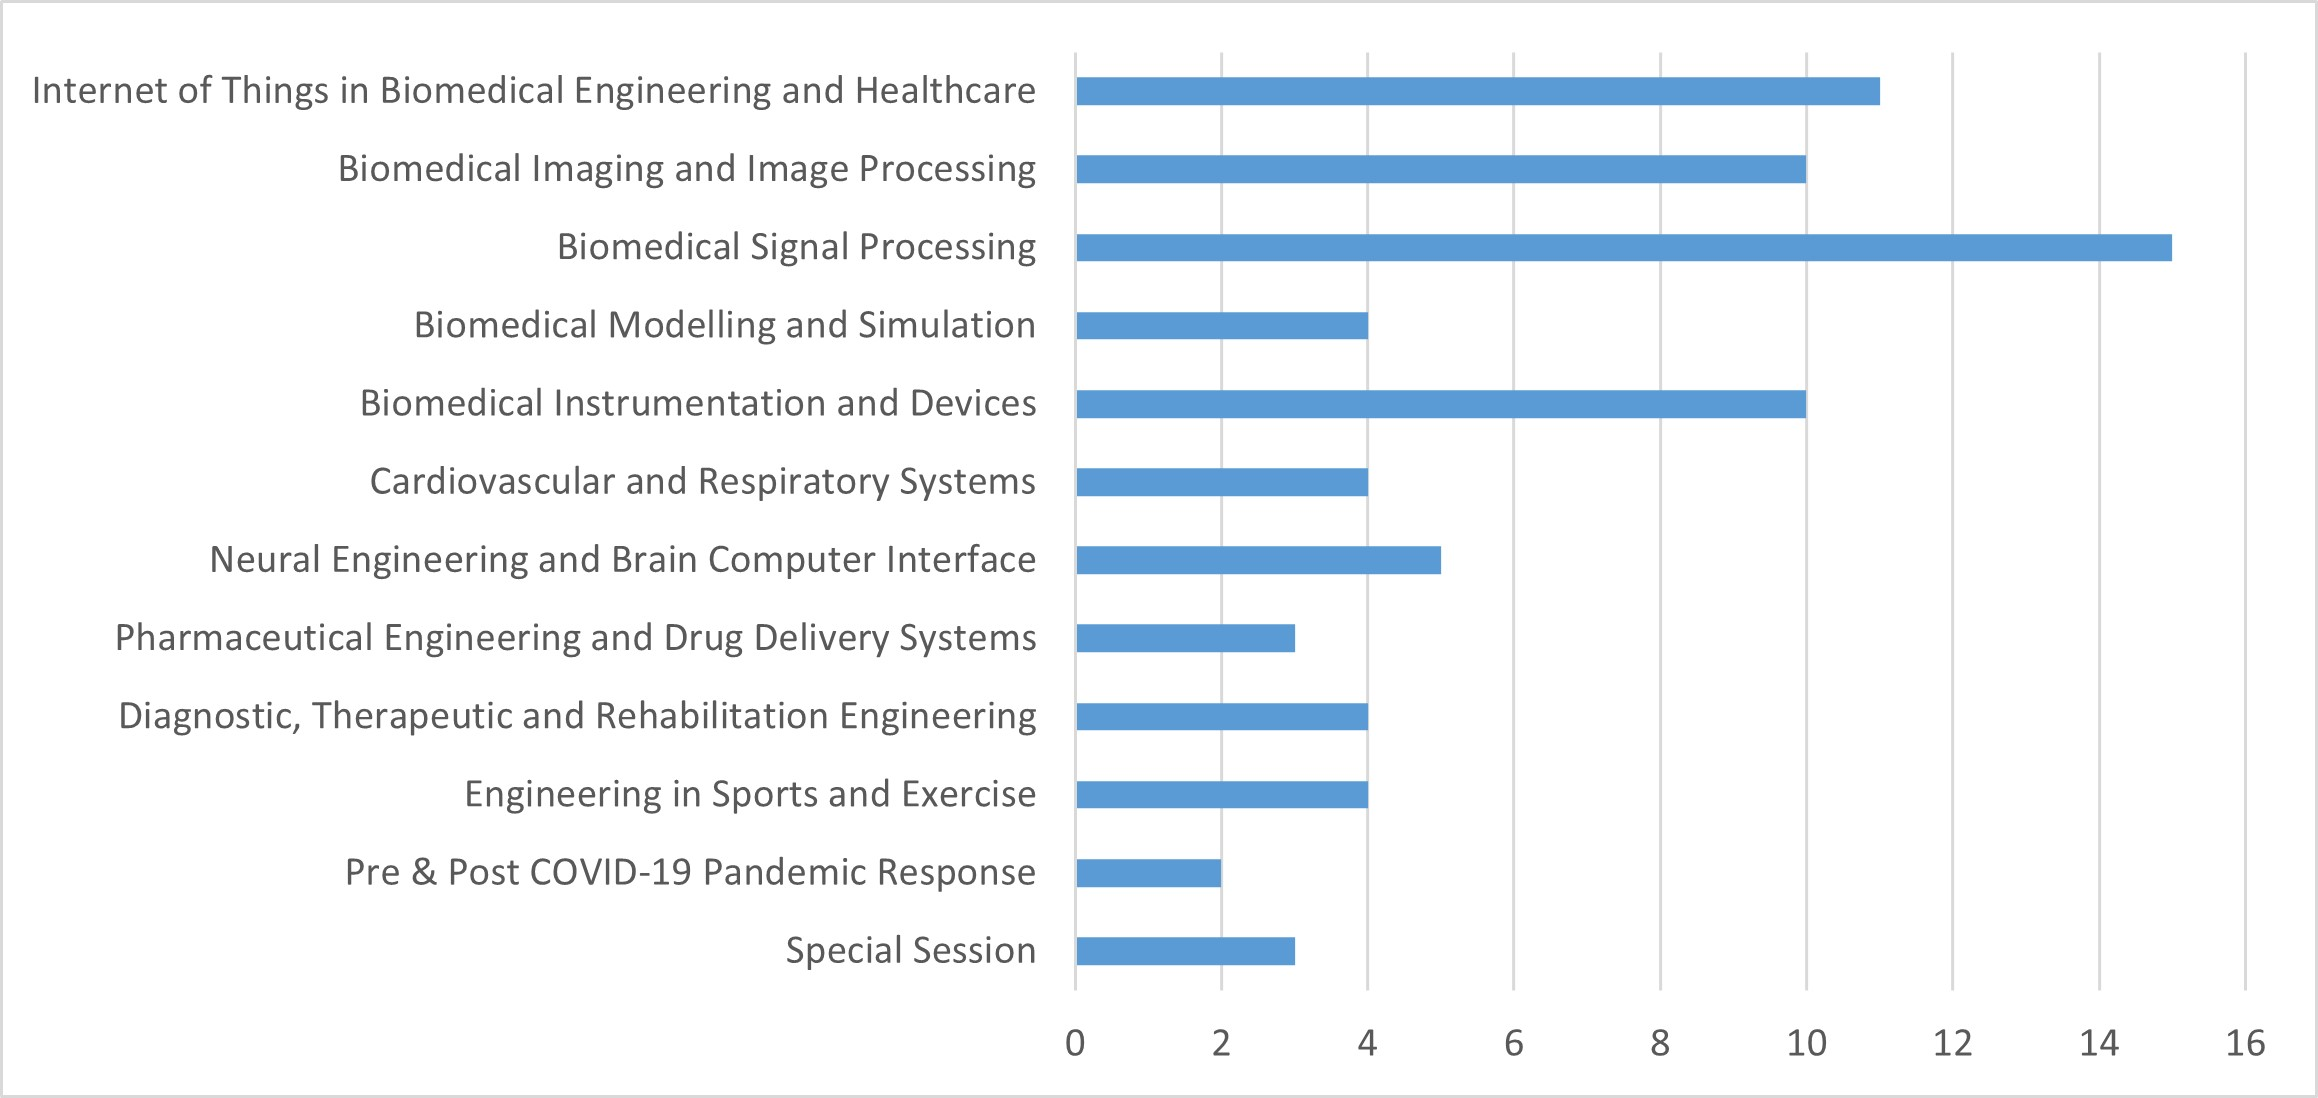
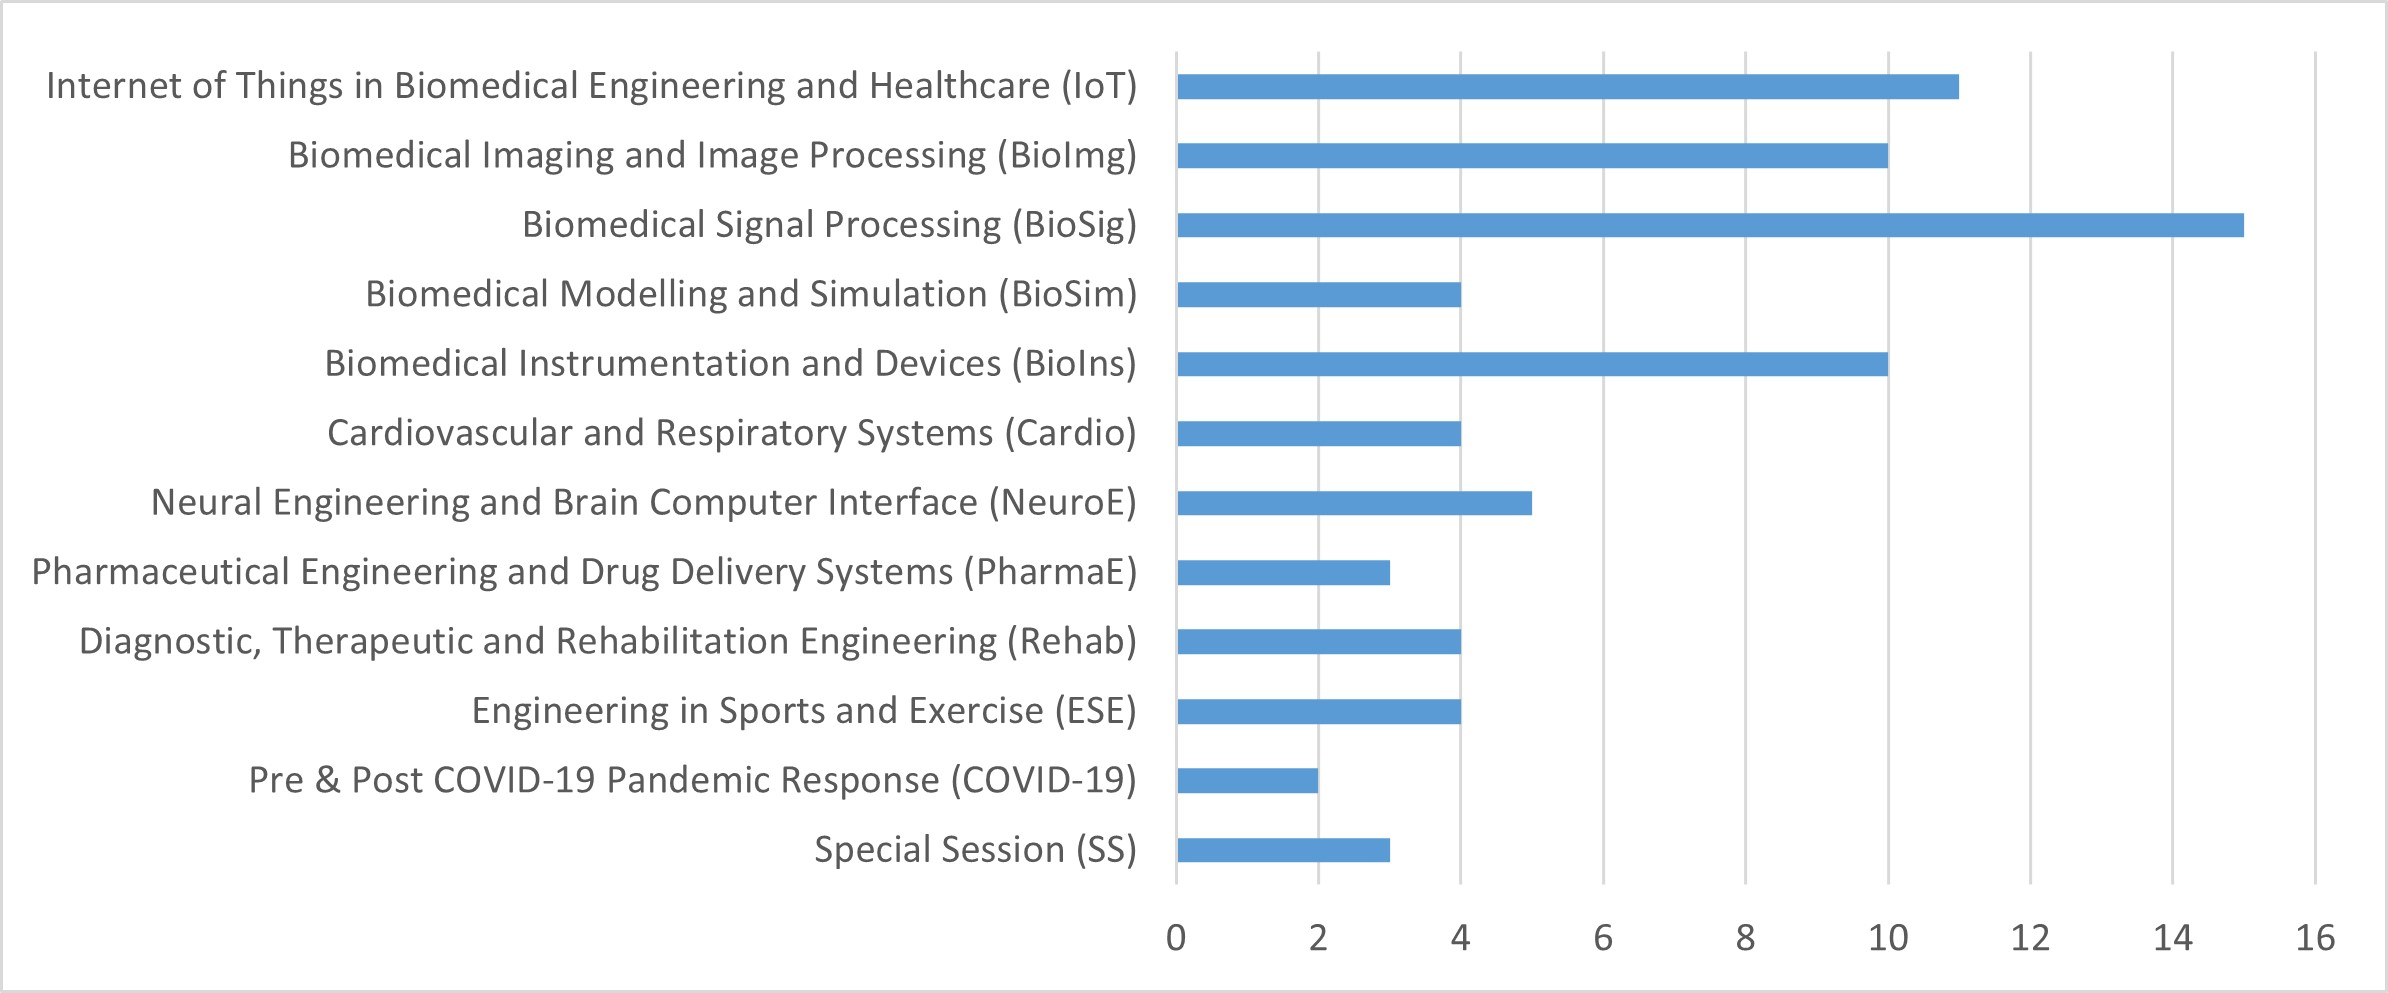
gather

diff --git a/_posts/2022-12-09-iecbes.md b/_posts/2022-12-09-iecbes.md
@@ -24,3 +24,7 @@ Consistent with the theme of “Healthcare Personalisation: For the Future & Bey
   <img src="{{ site.url }}{{ site.baseurl }}/assets/images/iecbes/numbers.jpg">
   <figcaption>Figure 1. Number of Accepted Papers in Each Session. </figcaption>
 </figure>
+
+**Insight 1**: As we can observe from Figure 1, BioSig is the most attractive session, followed by IoT, BioImg, and BioIns. Might be because we overcame the pandemic, the session COVID-19 only has 2 accepted papers. 
+
+## 2. 
